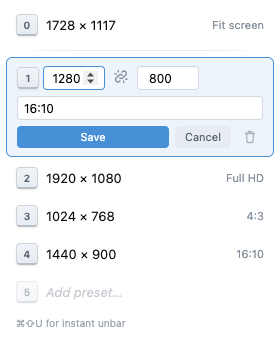
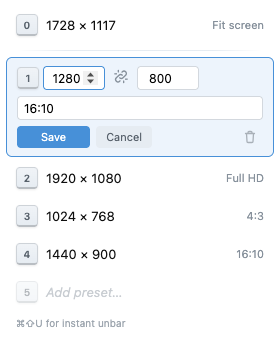
Separate delete button from safe actions, increase its click target
Push delete to the far right with margin-inline-start: auto (per CSS
layout guide). Match edit button's padding for consistent hit area.
Rename .clear → .delete for clarity.

Changed region(s): [[0.2857, 0.3519, 0.6286, 0.4399], [0.6571, 0.3812, 0.8, 0.4106], [0.1429, 0.3812, 0.2571, 0.4106]]

diff --git a/src/popup.css b/src/popup.css
@@ -224,7 +224,7 @@ kbd {
 		}
 
 		& .save {
-			flex: 1;
+			padding-inline: 1.5rem;
 			background: var(--accent);
 			color: white;
 
@@ -242,9 +242,10 @@ kbd {
 			}
 		}
 
-		& .clear {
+		& .delete {
+			margin-inline-start: auto;
 			color: color-mix(in oklch, var(--text-muted), white 30%);
-			padding: 0.25rem 0.375rem;
+			padding: 0.375rem 0.5rem;
 			display: inline-flex;
 			align-items: center;
 

diff --git a/src/popup.js b/src/popup.js
@@ -304,7 +304,7 @@ function editorHTML (index, slot) {
     <div class="actions">
       <button type="button" class="save" data-action="save">Save</button>
       <button type="button" class="cancel" data-action="cancel">Cancel</button>
-      ${slot ? `<button type="button" class="clear" data-action="clear" title="Remove this preset">${TRASH}</button>` : ""}
+      ${slot ? `<button type="button" class="delete" data-action="clear" title="Remove this preset">${TRASH}</button>` : ""}
     </div>
   </div>`;
 }